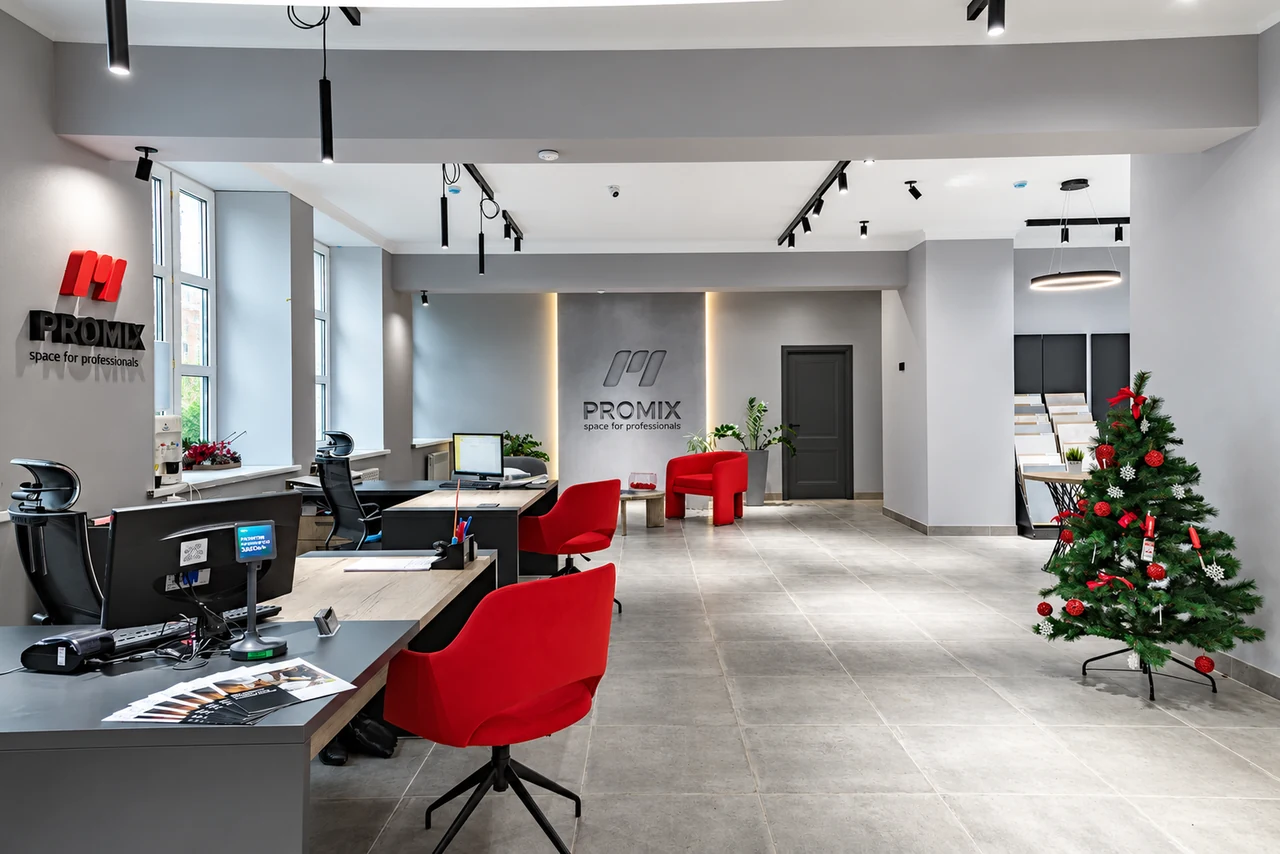
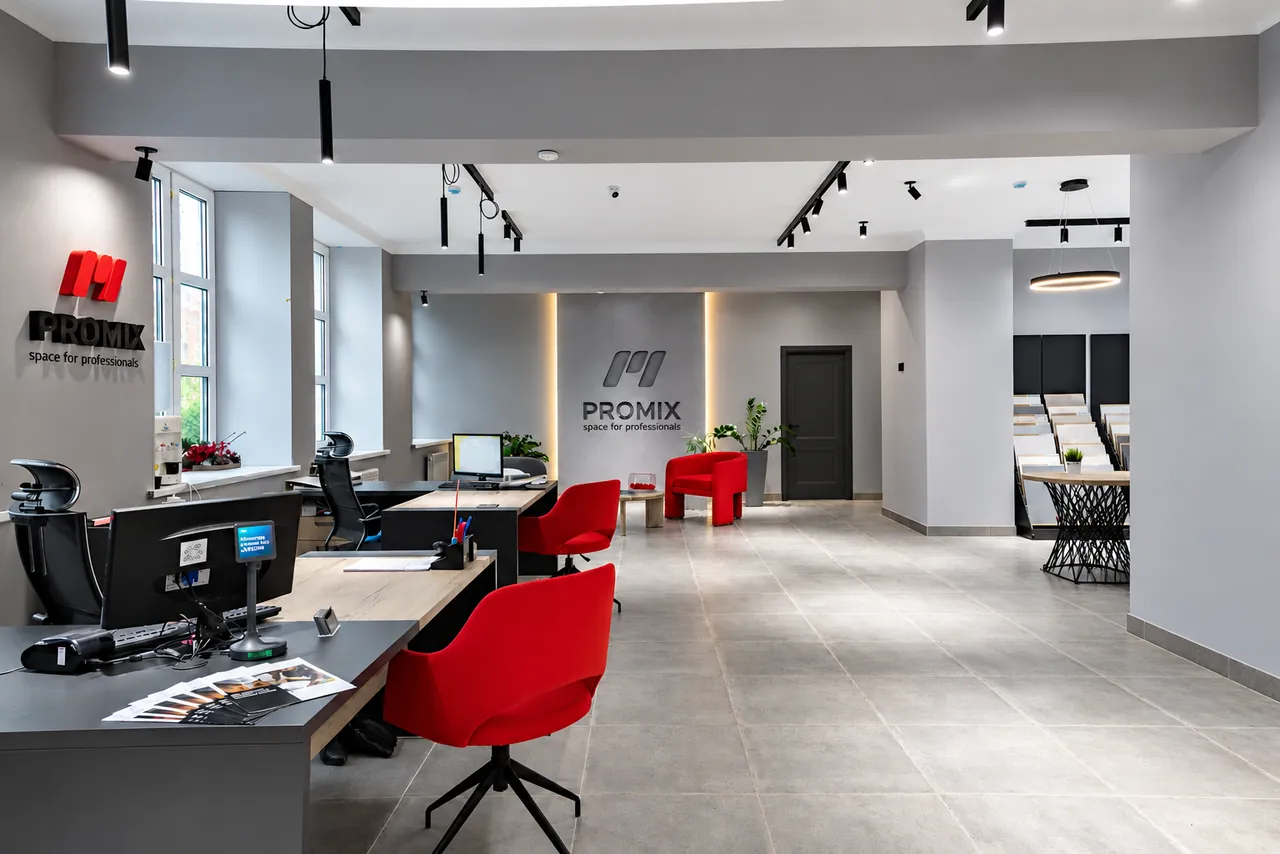
Первый экран: новое фото офиса 8.png, заново собраны main*.webp
Исходник 8.png заменён новым кадром (1536×1024, без ёлки). Из него
пересобраны main.webp 1920, main-1280.webp и main-768.webp — вес
219 КБ вместо 394. У ссылок на фон появилась версия по дате файла,
чтобы после замены браузер не показывал старое фото из кэша.

diff --git a/template-parts/home/hero.php b/template-parts/home/hero.php
@@ -39,11 +39,17 @@ $stats = promix_field(
             );
             ?>
         <?php else : ?>
+            <?php
+            // Версия по дате файла: фото заменили — браузер не покажет старое из кэша.
+            $hero_src = static function ( string $file ): string {
+                return add_query_arg( 'ver', promix_asset_version( "assets/img/{$file}" ), get_theme_file_uri( "assets/img/{$file}" ) );
+            };
+            ?>
             <img class="hero__bg"
-                 src="<?php echo esc_url( get_theme_file_uri( 'assets/img/main.webp' ) ); ?>"
-                 srcset="<?php echo esc_url( get_theme_file_uri( 'assets/img/main-768.webp' ) ); ?> 768w,
-                         <?php echo esc_url( get_theme_file_uri( 'assets/img/main-1280.webp' ) ); ?> 1280w,
-                         <?php echo esc_url( get_theme_file_uri( 'assets/img/main.webp' ) ); ?> 1920w"
+                 src="<?php echo esc_url( $hero_src( 'main.webp' ) ); ?>"
+                 srcset="<?php echo esc_url( $hero_src( 'main-768.webp' ) ); ?> 768w,
+                         <?php echo esc_url( $hero_src( 'main-1280.webp' ) ); ?> 1280w,
+                         <?php echo esc_url( $hero_src( 'main.webp' ) ); ?> 1920w"
                  sizes="100vw"
                  alt="" width="1920" height="1280" fetchpriority="high">
         <?php endif; ?>
